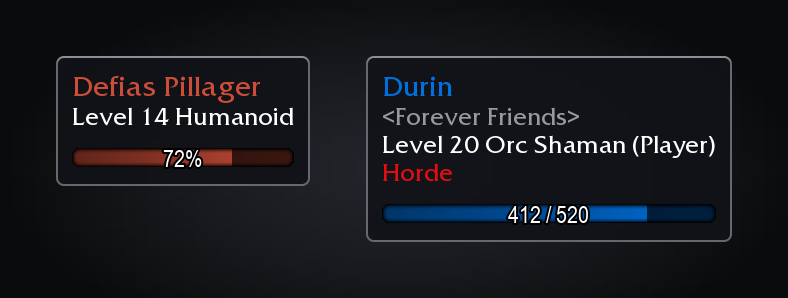
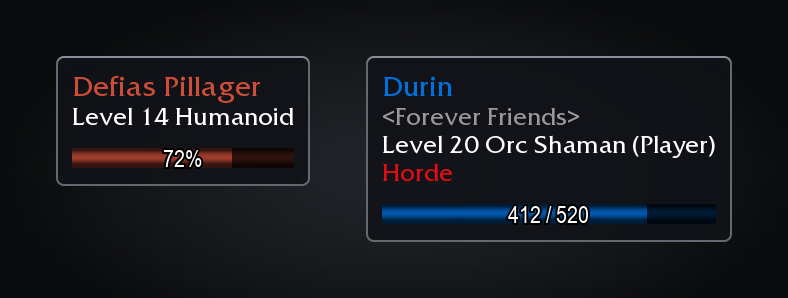
fix(tooltips): restore native health bar art (#707)
```mermaid
flowchart LR
    A["Tooltip health bar"] --> B["Native tooltip fill"]
```

Refs cjber/forever-core#1068 and cjber/forever-core#1069.

The tooltip health bar used cooldown HUD art in both styles. It now
keeps the fill supplied by Blizzard and uses that texture for its shaded
track. The existing tooltip border waiver still applies. [Client
GameTooltipTemplate](https://github.com/Gethe/wow-ui-source/blob/966519cf0ad2c10301ea011a88c14b25697c9687/Interface/AddOns/Blizzard_GameTooltip/Mainline/GameTooltip.xml#L8-L22)

Each image is a mock from the addon's screenshot entry point with client
art pinned to 1.60.1.70124. The game client was not run.

The main CI and ForeverCore drift workflows were dispatched on the train
branch through REST. The PR-only Visual proof workflow requires an
in-client capture record. This audit uses the labeled offline mocks
below.

## Screenshots

![tooltips.png
mock](https://raw.githubusercontent.com/cjber/tweaks-forever/42ae35abda69367a00be60ec42725d338af2f10a/docs/screenshots/tooltips.png)

<details><summary>More mocks</summary>

![camp.png
mock](https://raw.githubusercontent.com/cjber/tweaks-forever/42ae35abda69367a00be60ec42725d338af2f10a/docs/screenshots/camp.png)

![campsite.png
mock](https://raw.githubusercontent.com/cjber/tweaks-forever/42ae35abda69367a00be60ec42725d338af2f10a/docs/screenshots/campsite.png)

![chat.png
[…]

Changed region(s): [[0.4873, 0.6644, 0.9137, 0.755], [0.0914, 0.4832, 0.3655, 0.5738], [0.6701, 0.6644, 0.7005, 0.6946]]

diff --git a/tools/screenshots.py b/tools/screenshots.py
@@ -907,7 +907,7 @@ def demo(ui):
 
 # UI/Tooltips.lua under Modern tooltips: the nine pieces cut from media/TooltipBorderModern.tga (PIECES, in sixteenths),
 # with room under the last line for the health bar (EDGE, BOTTOM, HEIGHT, GAP, PADDING). Its fill and track are the
-# game's cooldown bar, UI-HUD-CoolDownManager-Bar, 124x10 native and always 10 tall, the track at TRACK_SHADE.
+# native GameTooltip health texture, with the track at TRACK_SHADE.
 TIP_PIECES = {
     "TopLeftCorner": (0, 7, 0, 7),
     "TopRightCorner": (9, 16, 0, 7),
@@ -923,7 +923,9 @@ TIP_CORNER = 7
 BAR_EDGE, BAR_BOTTOM, BAR_HEIGHT, BAR_GAP = 10, 11, 10, 10
 BAR_PADDING = BAR_BOTTOM + BAR_HEIGHT + BAR_GAP - 10
 BAR_TRACK_SHADE = 0.3
-BAR = "UI-HUD-CoolDownManager-Bar"
+# UI-TargetingFrame-BarFill from GameTooltipTemplate, scoped to the unit tooltip host.
+# https://github.com/Gethe/wow-ui-source/blob/966519cf0ad2c10301ea011a88c14b25697c9687/Interface/AddOns/Blizzard_GameTooltip/Mainline/GameTooltip.xml#L8-L22
+TOOLTIP_HEALTH_FILE = 137014
 BAR_TEXT = Font(ARIALN, 12, (1, 1, 1), None, outline=True)  # Number12FontOutline
 GUILD = (0.6, 0.6, 0.6)
 HORDE = (0.90, 0.05, 0.07)  # PLAYER_FACTION_COLORS[0]
@@ -961,7 +963,8 @@ def unit_tooltip(ui, lines, colour, health, text):
         c.text(TOOLTIP_PADDING, y, line.left, font, line.color)
         y += font.height + TOOLTIP_LINE_GAP
     x, w, y = BAR_EDGE, width - 2 * BAR_EDGE, height - BAR_BOTTOM - BAR_HEIGHT
-    bar = ui.atlas(BAR)
+    # As with chat_host, load this specific native host texture directly. texture() rejects pre-Legion art.
+    bar = ui._image(TOOLTIP_HEALTH_FILE)
     c.draw(bar, x, y, w, BAR_HEIGHT, color=(*(v * BAR_TRACK_SHADE for v in colour), 1))
     # A StatusBar crops its texture to the value rather than squeezing it: draw the fill at the bar's own width, then
     # keep the shown part.

diff --git a/changes/forever-core-1068.md b/changes/forever-core-1068.md
@@ -1,0 +1,3 @@
+### Fixed
+
+- Modern tooltips use the game's own health bar art.
